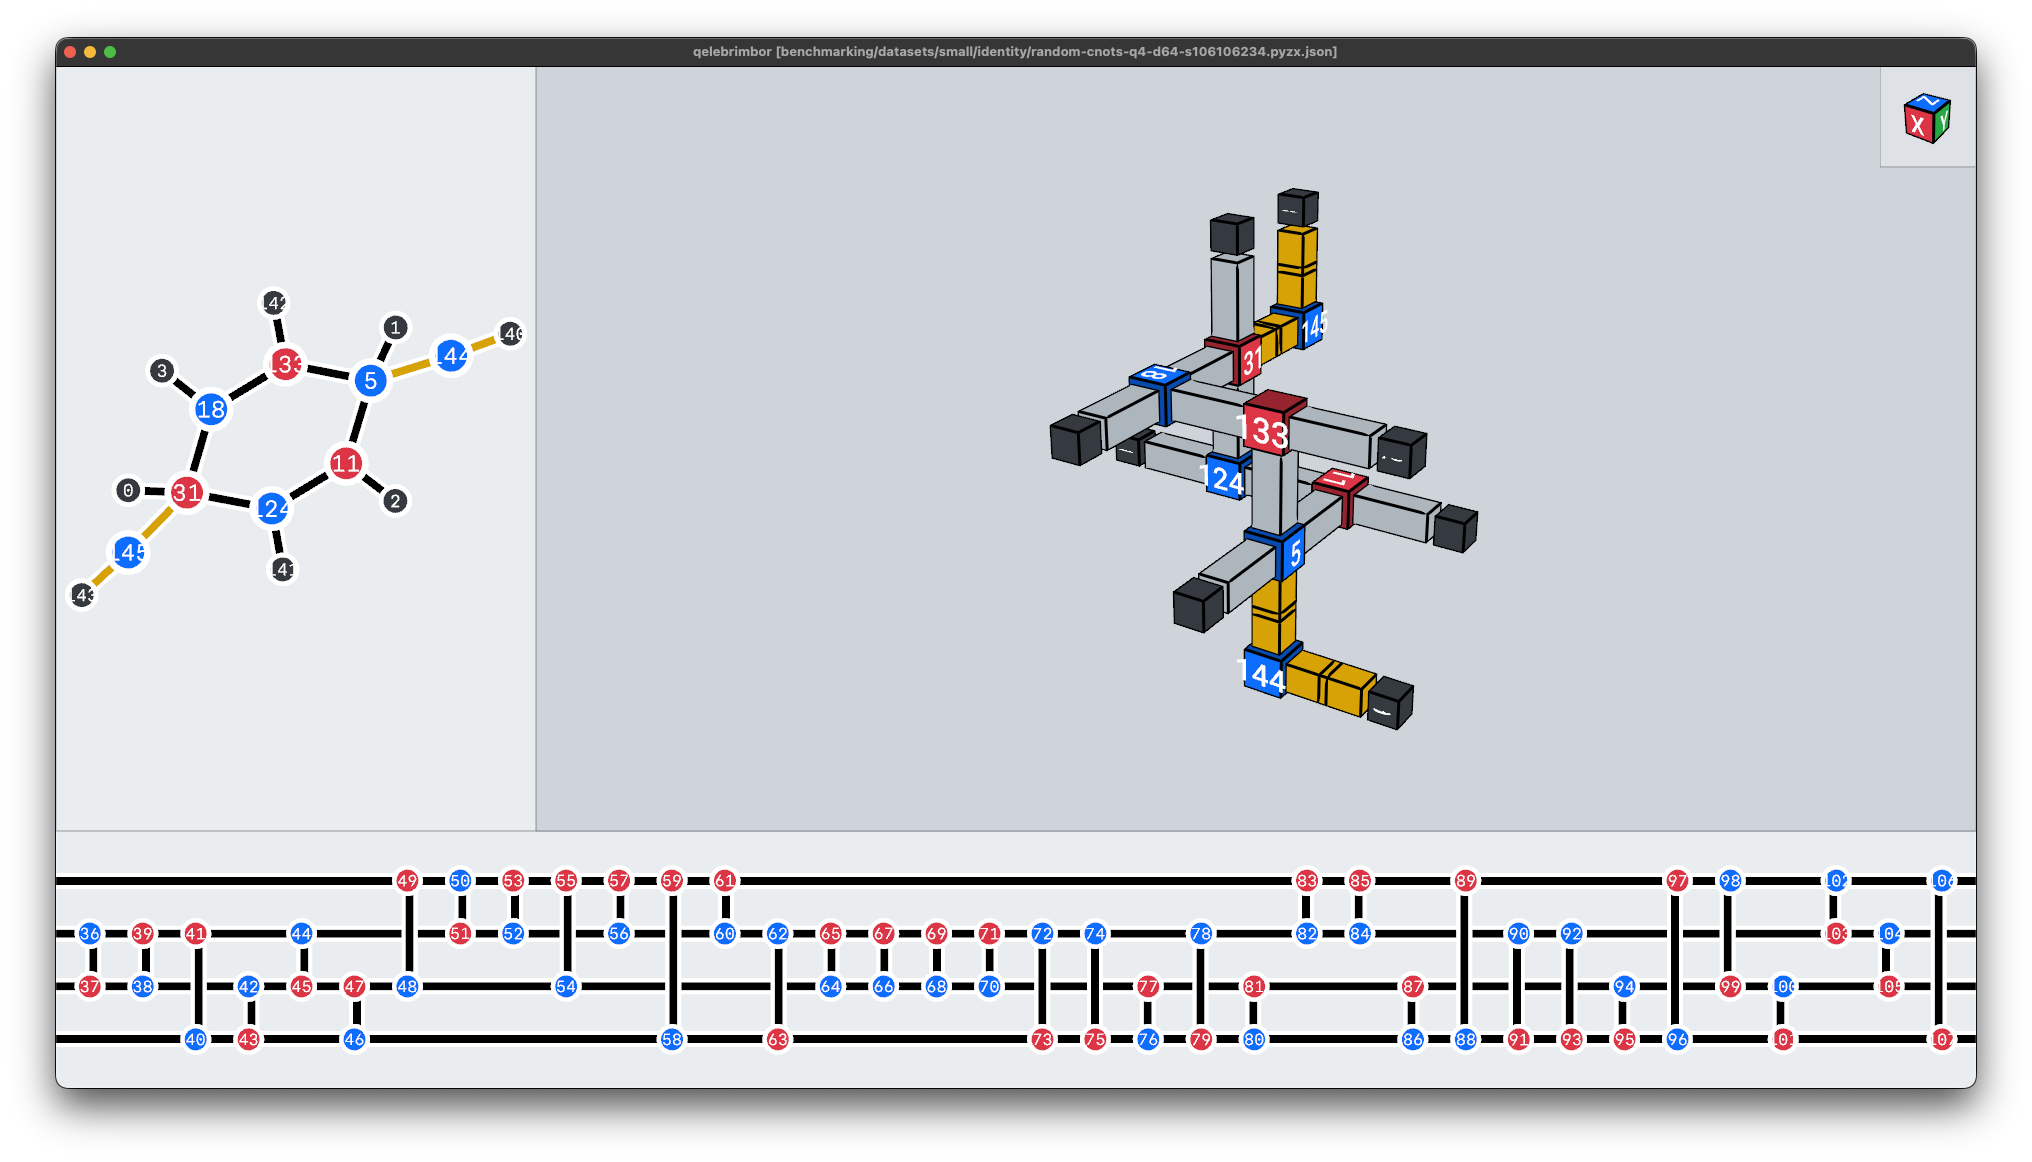
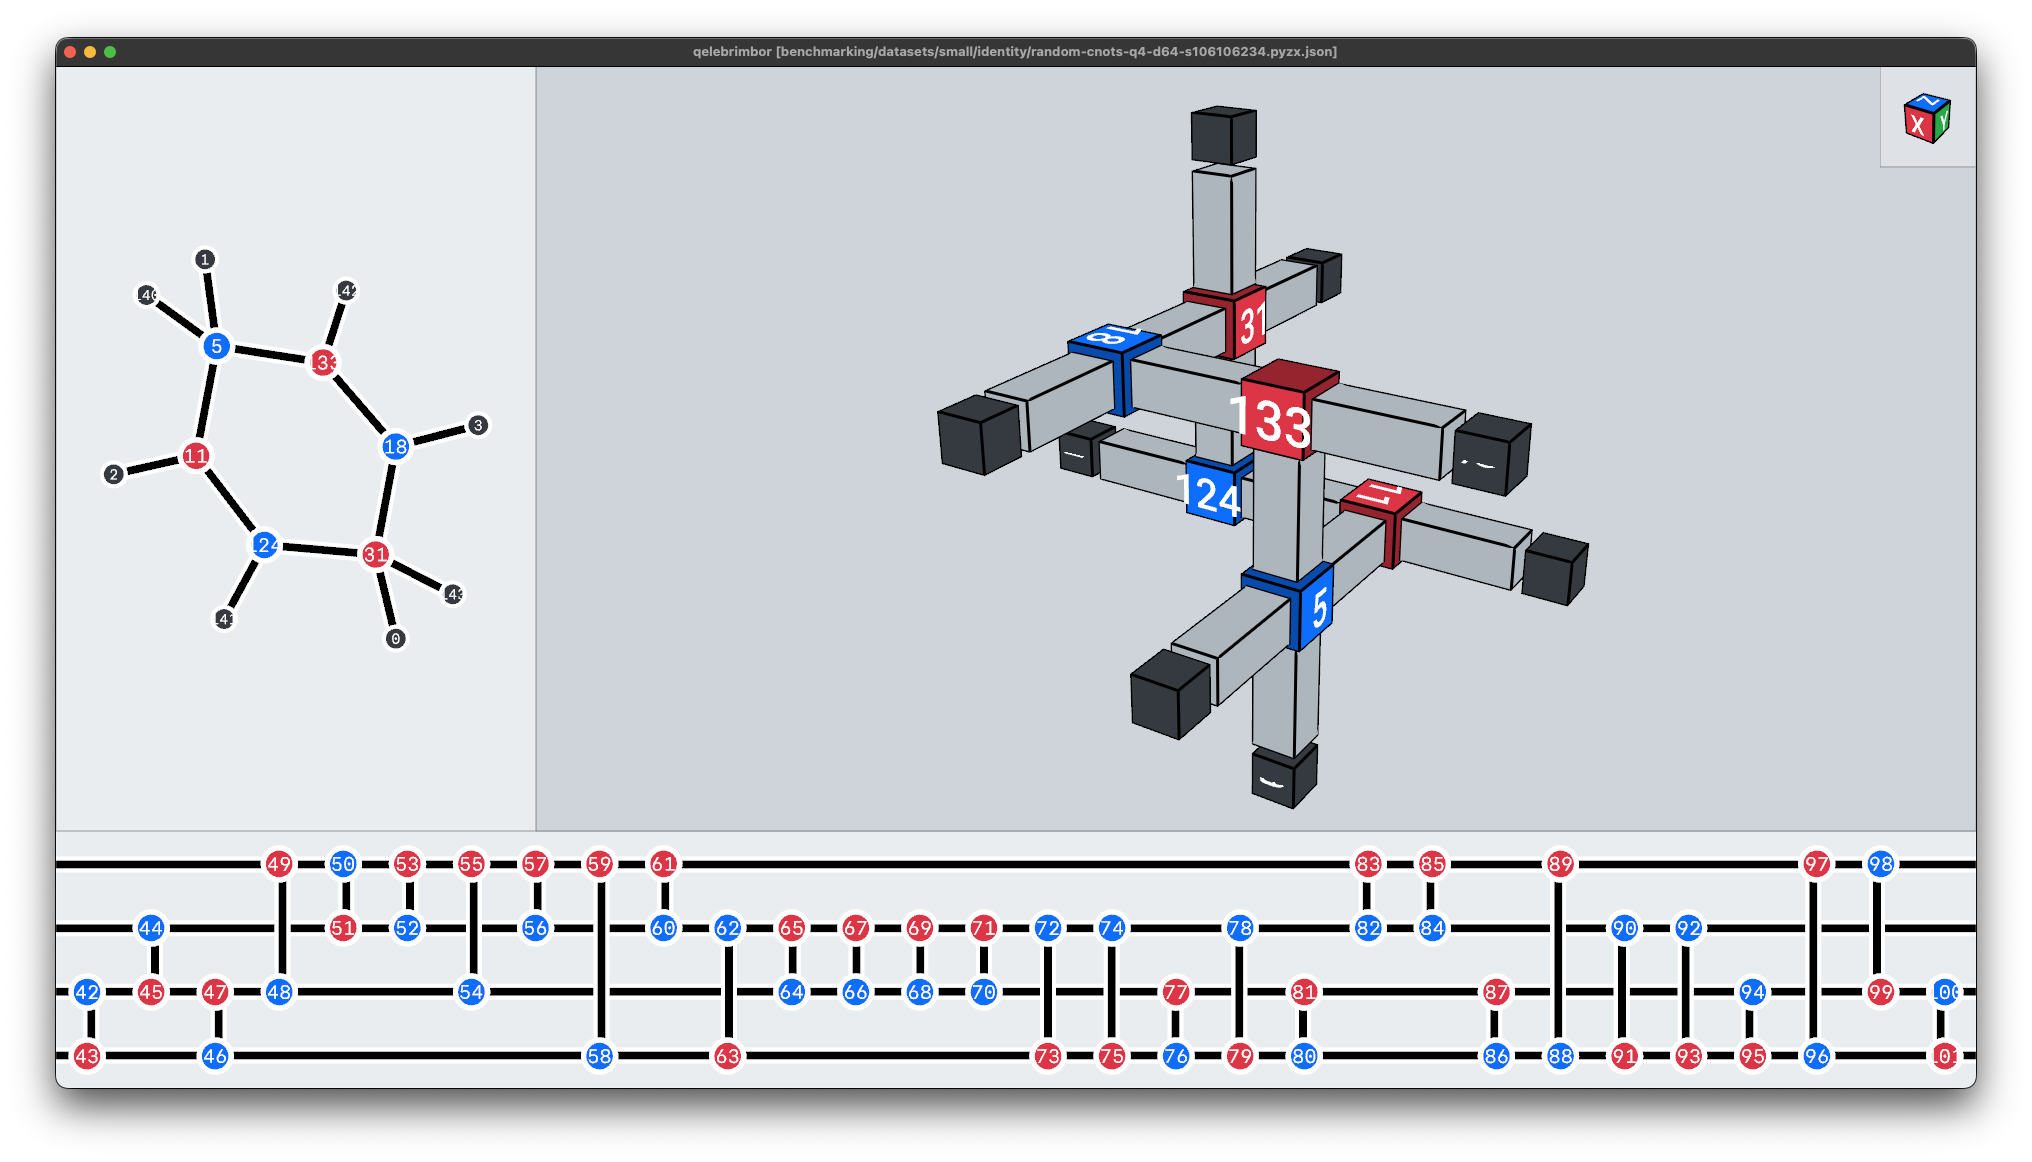
Altered script plot-results-dataset-rings.py to compare multiple files. - Updated README.md accordingly.

Changed region(s): [[0.031, 0.0929, 0.9921, 0.9294], [0.031, 0.2169, 0.279, 0.5577], [0.093, 0.4957, 0.124, 0.5577]]

diff --git a/benchmarking/plot-results-dataset-rings.py b/benchmarking/plot-results-dataset-rings.py
@@ -25,24 +25,34 @@ logging.getLogger("matplotlib").setLevel(logging.WARNING)
 
 parser = ArgumentParser(
     prog="qb",
-    description="A tool to construct a Volumetric ZX-graph (a.k.a. BlockGraph) from an input ZX-graph. Currently accepted files are *.json containing a PyZX graph in JSON format.",  # noqa: E501
+    description="A tool to plot the results of benchmark runs.",  # noqa: E501
 )
-parser.add_argument("filepath", help="path to the file containing the results of a benchmark run to display.")
+parser.add_argument("filepaths", nargs="+", help="path to the file containing results of a benchmark run to display.")
 
 if __name__ == "__main__":
     arguments = parser.parse_args()
 
-    data = pandas.read_csv(arguments.filepath)
-    data.info()
+    dataframes: list[pandas.DataFrame] = list()
+    for filepath in arguments.filepaths:
+        _, _, _, size, commit = filepath.split(".")[0].split("-")
+        df = pandas.read_csv(filepath)
+        df["source"] = size + "-" + commit[:8]
+        df.info()
+        dataframes.append(df)
 
+    data = pandas.concat(dataframes, ignore_index=True)
     available = data[data["status"] == "COMPLETE"]
 
-    seaborn.boxplot(data=available, x=available["layers"].astype(str), y="iir")
+    seaborn.set_theme(rc={"figure.constrained_layout.use": True})
+
+    plot1 = seaborn.boxplot(data=available, x=available["layers"].astype(str), y="iir", hue="source")
+    seaborn.move_legend(plot1, "upper left", bbox_to_anchor=(1, 1))
     plt.title("Internal Inflation Rate [4 qubits]")
     plt.ylabel("Inflation (+%)")
     plt.show()
 
-    seaborn.boxplot(data=available, x=available["layers"].astype(str), y="run")
+    plot2 = seaborn.boxplot(data=available, x=available["layers"].astype(str), y="run", hue="source")
+    seaborn.move_legend(plot2, "upper left", bbox_to_anchor=(1, 1))
     plt.title("Runtime [4 qubits]")
     plt.ylabel("Time (s)")
     plt.show()

diff --git a/README.md b/README.md
@@ -8,7 +8,7 @@ A toolbox for studying the relationships between ZX-graphs and Lattice Surgery. 
 
 This project started originally around the VolumetricZxGraph class to conceal a ZX-graph and its associated Blockgraph behind a single concept as a contribution to topologiq (https://github.com/tqec/topologiq).
 
-**Acknowledgements:** the author of this project is grateful to Jose A. Bolanos for the lengthy discussions on the implementation of topologiq that helped him shape his understanding of the problem that it solves. The discussions with other members of the TQEC community; Austin Fowler, Adrien Suau and Tianyi Hao, have provided invaluable insights into the nuances and requirements of the surface code and lattice surgery. 
+**Acknowledgements:** the author of this project is grateful to Jose A. Bolanos for the lengthy discussions on the implementation of topologiq that helped him shape his understanding of the problem that it solves. This has greatly influenced the initial shape of this tool and the direction in which it is headed. The discussions with other members of the TQEC community; Austin Fowler, Adrien Suau and Tianyi Hao, have provided invaluable insights into the nuances and requirements of the surface code and lattice surgery. 
 
 ## Installation
 ```bash
@@ -73,6 +73,21 @@ The arguments accepted by the benchmarking tool can be obtained by running
 ```bash
 $ uv run benchmarking/benchmark-dataset-rings-small.py -h
 ```
+
+#### Plotting results
+
+A script is available to plot the results of one or more benchmark result files. It can be invoked in the following way
+
+```bash
+$ uv run benchmarking/plot-results-dataset-rings.py benchmark-results-small-robust-a9645276f320d3edb71f1c2cef6849e7a43a9162.csv benchmark-results-small-quick-b0ba145242194a12453eeb3963ffc65558f4b705.csv
+```
+
+**Note: it is important to keep the names that the benchmark-dataset-rings.py script produces as they are, since the plotting script assume the specific name format used.**
+
+The summary of the Internal Inflation Rate and Runtime will be presented in the form of boxplots.
+
+![Internal Inflation Rate](documentation/benchmark-result-iir.png)
+![Runtime](documentation/benchmark-result-run.png)
 
 ## Main script
 